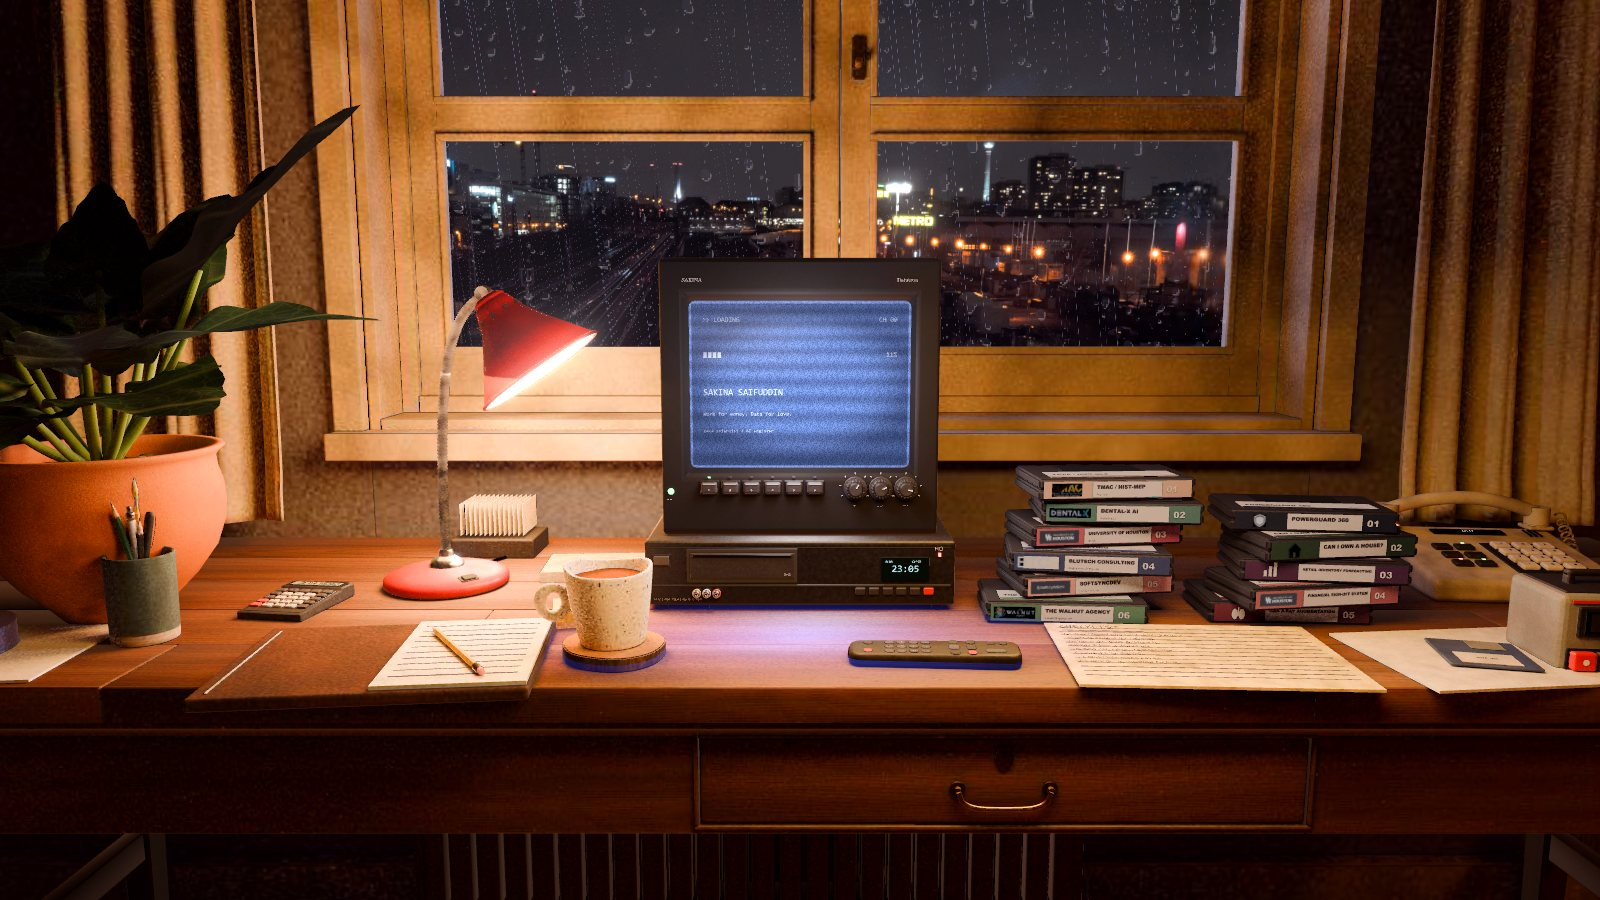
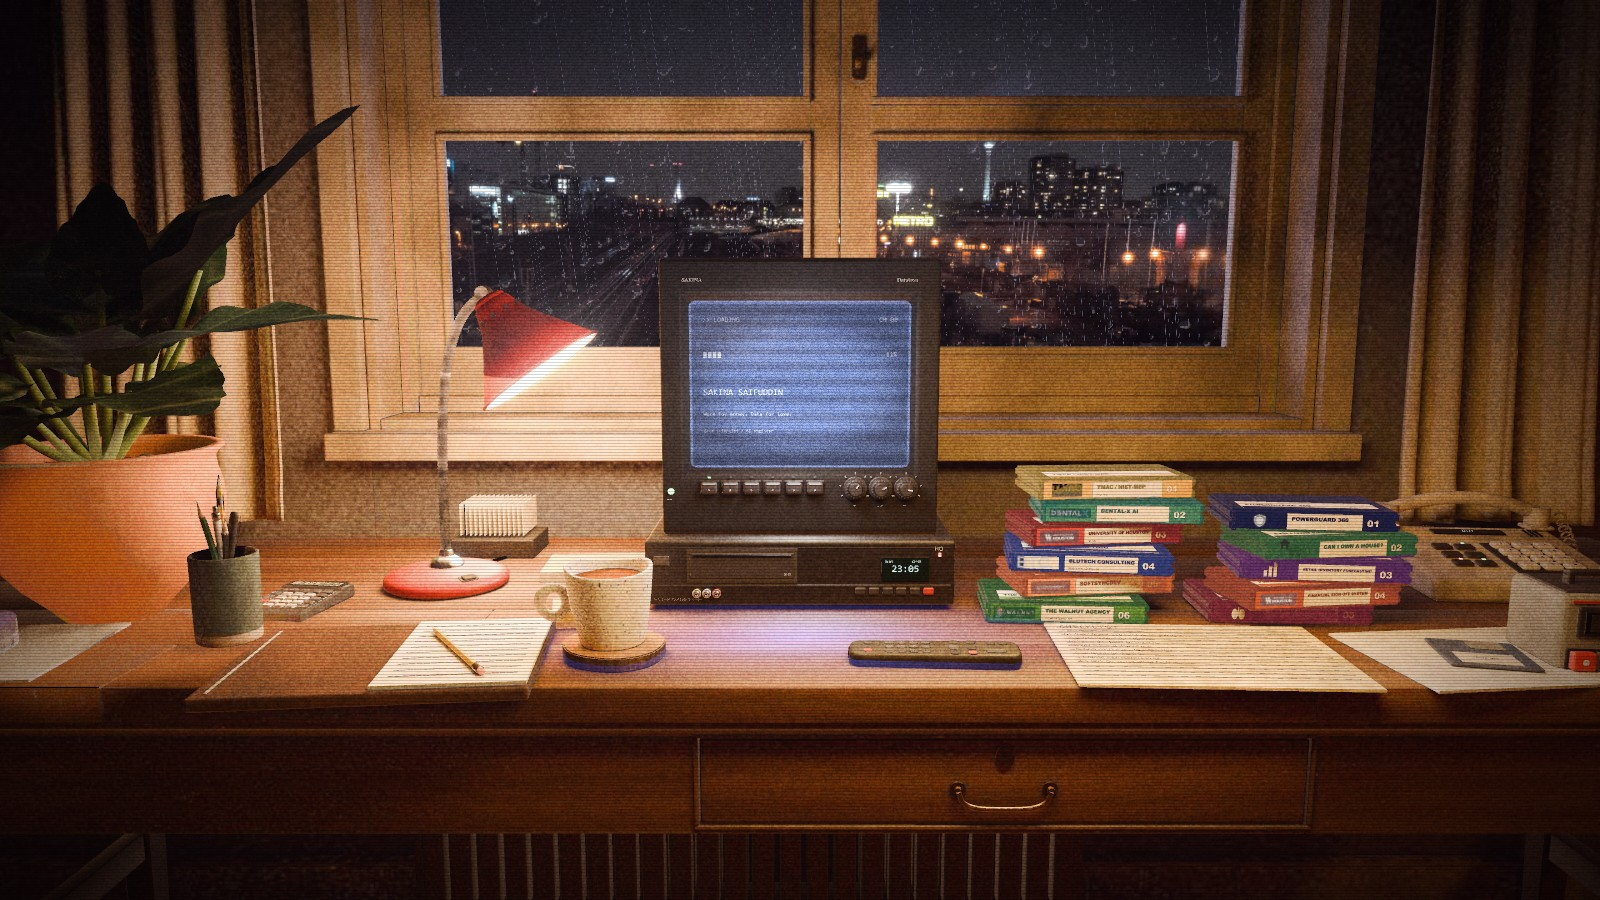
Gate: new-look still, live scene visible once loaded, fix hidden progress bar

Changed region(s): [[0.0, 0.0, 1.0, 0.7778], [0.6875, 0.2489, 0.75, 0.3111], [0.6875, 0.0, 0.7188, 0.0311]]

diff --git a/web/crt-gate.css b/web/crt-gate.css
@@ -11,8 +11,8 @@ html.crt-gating .brand,html.crt-gating .bar,html.crt-gating #hint{visibility:hid
 #crt-gate .mid{position:absolute;left:0;right:0;top:50%;transform:translateY(-50%);display:flex;flex-direction:column;align-items:center;gap:.32em}
 #crt-gate .cta{display:none;font-size:1.05em;letter-spacing:.06em}
 #crt-gate .meter{display:flex;align-items:center;gap:.4em;font-size:.7em}
-#crt-gate .bar{display:block;width:8em;height:.46em;background:repeating-linear-gradient(90deg,rgba(255,255,255,.26) 0 .31em,transparent .31em .4em)}
-#crt-gate .bar i{display:block;height:100%;width:0;background:repeating-linear-gradient(90deg,#f4f5ff 0 .31em,transparent .31em .4em)}
+#crt-gate .cg-bar{display:block;width:8em;height:.46em;background:repeating-linear-gradient(90deg,rgba(255,255,255,.26) 0 .31em,transparent .31em .4em)}
+#crt-gate .cg-bar i{display:block;height:100%;width:0;background:repeating-linear-gradient(90deg,#f4f5ff 0 .31em,transparent .31em .4em)}
 #crt-gate .pc{min-width:2.3em;font-variant-numeric:tabular-nums}
 #crt-gate.ready .lb{opacity:0}
 #crt-gate.ready .cta{display:block;animation:cg-blink 1.4s steps(1) infinite}
@@ -41,3 +41,5 @@ html.crt-gating .brand,html.crt-gating .bar,html.crt-gating #hint{visibility:hid
 @keyframes cg-out{0%{opacity:1;filter:brightness(1.6)}20%{opacity:.4}40%{opacity:0}100%{opacity:0}}
 @keyframes cg-static{0%{opacity:.9;transform:translate(0,0)}17%{opacity:.75;transform:translate(-7%,4%)}34%{opacity:.85;transform:translate(5%,-6%)}51%{opacity:.6;transform:translate(-3%,7%)}68%{opacity:.35;transform:translate(6%,2%)}85%{opacity:.12}100%{opacity:0}}
 @media (prefers-reduced-motion:reduce){#crt-gate,#crt-gate .pic,#crt-gate .glass::after,#crt-gate.ready .cta,#crt-gate.out .pic,#crt-gate.out .noise{animation:none;transition:none}}
+
+#crt-gate.ready{background:transparent}

diff --git a/web/crt-gate.js b/web/crt-gate.js
@@ -8,13 +8,13 @@ if(loader){
   gate.setAttribute("role","status");
   gate.innerHTML=`<button type="button" class="enter" aria-label="Enter the room" disabled></button>
 <div class="scr"><div class="pic"><span class="lb">▶▶ LOADING</span><span class="ch">CH 00</span>
-<div class="mid"><p class="cta">CLICK TO ENTER</p><div class="meter"><span class="bar"><i></i></span><span class="pc">0%</span></div>
+<div class="mid"><p class="cta">CLICK TO ENTER</p><div class="meter"><span class="cg-bar"><i></i></span><span class="pc">0%</span></div>
 <button type="button" class="snd on" role="switch" aria-checked="true"><span>SOUND</span><b><i class="s-on">ON</i><i class="s-off">OFF</i></b></button></div></div>
 <div class="noise"></div><div class="glass"></div></div>`;
   document.body.prepend(gate);
 
   const $=s=>gate.querySelector(s);
-  const bar=$(".bar i"),pc=$(".pc"),lb=$(".lb"),snd=$(".snd"),enter=$(".enter"),scr=$(".scr");
+  const bar=$(".cg-bar i"),pc=$(".pc"),lb=$(".lb"),snd=$(".snd"),enter=$(".enter"),scr=$(".scr");
   const reduced=matchMedia("(prefers-reduced-motion: reduce)").matches;
 
   const c=document.createElement("canvas");c.width=c.height=128;
